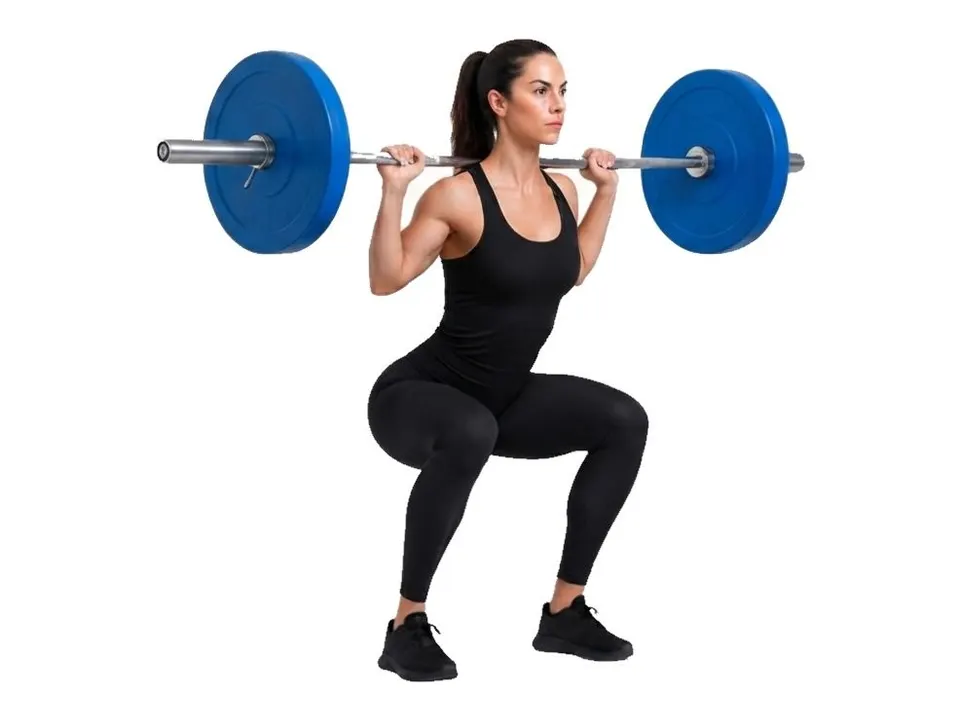
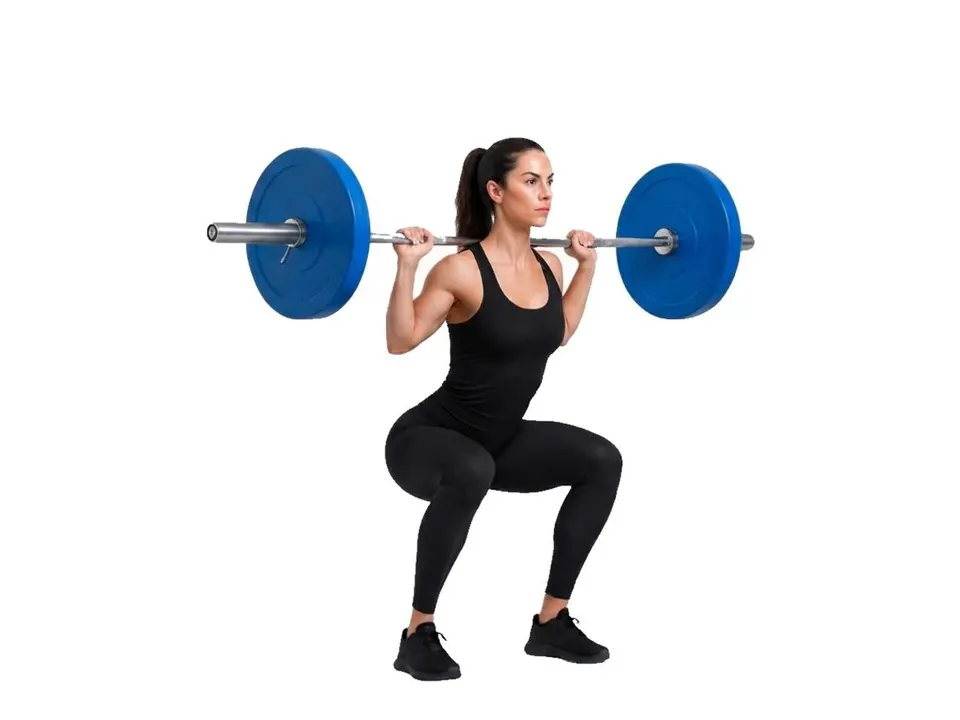
Move photos animate again: 45 moves swap two poses with a hard cut
The owner asked for the woman's move photos to move again, as real exercises and nothing that looks odd. Each of the
57 two-frame moves was checked by eye (side by side, overlaid, and against the exercise's own instructions):

- 45 loop: public/moves/photo/<id>-b.webp is the other end of the movement, cropped with the same box as the photo
  (raw camera coordinates; the sumo deadlift is lined up on the floor), so the floor, feet and equipment stay put.
  ExerciseVisual lays it over the photo and swaps with a hard cut, never a fade: 900 ms a pose for lifts, 450 ms
  for steps, strides, rope turns and punches. Thumbnails and reduced motion stay still; a second photo that fails
  to load stops the loop and keeps the still.
- 12 stay one picture (STILL in scripts/moves/build.mjs, with the reason for each): arm circles, assault bike,
  battle rope, hip circles, burpee, slam hop-over, dumbbell fly, standing dumbbell press, stationary bike, Swiss
  ball leg curl, thruster and wall ball. The 5 stretches and holds have one frame.

About 0.6 MB more precached. A test keeps the shipped -b files and EXERCISE_PHOTO_LOOPS in step.

Changed region(s): [[0.1562, 0.0306, 0.8438, 0.9472]]

diff --git a/src/data/exerciseMedia.ts b/src/data/exerciseMedia.ts
@@ -199,6 +199,9 @@ export const EXERCISE_ART_LOOPS: Record<string, [slug: string, frames: number[]]
 // picture of these moves, so a class and its swaps read in one style. Every frame was checked by eye; the leg press
 // stops at 90° and the back squat above parallel, the ranges the instructions set. Until 2026-10-14 they were two-frame
 // loops with a man's set for male profiles; the owner found the fade ghostly and chose one picture, of the woman.
+// Since 2026-10-15 the moves in EXERCISE_PHOTO_LOOPS move again, without a fade: photo/<id>-b.webp is the other end of
+// the movement in the same crop, and the two swap with a hard cut. Every pair was checked by eye against the exercise;
+// STILL in scripts/moves/build.mjs lists the two-frame moves that stay one picture, and why.
 export const EXERCISE_PHOTO_SOURCE = 'AI-generated (Canva, Gemini)'
 export const EXERCISE_PHOTOS: string[] = [
   'arabesque', 'arm_circles', 'arnold_press', 'assault_bike', 'ball_back_extension', 'ball_slam', 'band_monster_walk',
@@ -212,6 +215,27 @@ export const EXERCISE_PHOTOS: string[] = [
   'stationary_bike', 'step_jack', 'straight_arm_pulldown', 'swiss_ball_leg_curl', 'thread_the_needle', 'thruster',
   'track_run', 'treadmill_push', 'wall_ball',
 ]
+
+/** Photo moves that loop: the photo, then photo/<id>-b.webp. Built by scripts/moves/build.mjs, checked by eye 2026-10-15. */
+export const EXERCISE_PHOTO_LOOPS: string[] = [
+  'arabesque', 'arnold_press', 'ball_back_extension', 'ball_slam', 'band_monster_walk', 'bb_back_squat', 'bb_bench_press',
+  'bb_hang_pull', 'bb_row', 'bb_sumo_deadlift', 'bike_climb', 'cat_cow', 'db_overhead_triceps', 'db_pullover_bridge',
+  'double_under', 'glute_bridge', 'hip_thrust', 'incline_walk', 'jump_rope', 'kb_bottoms_up_press', 'kb_halo', 'kb_rdl',
+  'kb_suitcase_squat', 'kb_swing', 'kneeling_hip_thrust', 'landmine_lunge_press', 'lateral_lunge', 'leg_press',
+  'leg_swings', 'march_in_place', 'mountain_climber', 'one_arm_db_row', 'pallof_press_overhead', 'plank_shoulder_tap',
+  'rowing_machine', 'scapular_roll', 'shadow_boxing', 'ski_erg', 'sl_bridge_bench', 'sled_push', 'step_jack',
+  'straight_arm_pulldown', 'thread_the_needle', 'track_run', 'treadmill_push',
+]
+
+/** Quick, repeating loops (steps, strides, rope turns, punches) swap faster than a lift's steady rep. */
+export const EXERCISE_PHOTO_FAST: string[] = [
+  'bike_climb', 'double_under', 'incline_walk', 'jump_rope', 'march_in_place', 'mountain_climber', 'shadow_boxing',
+  'sled_push', 'step_jack', 'track_run', 'treadmill_push',
+]
+
+/** How long each photo of a loop shows, in ms. */
+export const PHOTO_BEAT_MS = 900
+export const PHOTO_FAST_BEAT_MS = 450
 
 const movesUrl = (file: string) => `${import.meta.env.BASE_URL}moves/${file}`
 
@@ -233,10 +257,14 @@ export interface ExerciseMedia {
   photo: string | null
   /** The same photo cropped square on the person, for thumbnails. */
   photoThumb: string | null
+  /** The photo, then the other end of the movement when the move loops ([] without a photo). */
+  photoFrames: string[]
+  /** How long each photo of a loop shows, in ms (0 without a loop). */
+  photoBeat: number
   source: string | null
 }
 
-const NO_PHOTO = { photo: null, photoThumb: null }
+const NO_PHOTO = { photo: null, photoThumb: null, photoFrames: [], photoBeat: 0 }
 
 /**
  * Animation + photos for one of OUR exercise ids (unknown ids get neither). An AI photo replaces all, then a drawing
@@ -244,7 +272,14 @@ const NO_PHOTO = { photo: null, photoThumb: null }
  */
 export function exerciseMedia(id: string): ExerciseMedia {
   if (EXERCISE_PHOTOS.includes(id)) {
-    return { animation: null, images: [], art: null, artFrames: [], photo: movesUrl(`photo/${id}.webp`), photoThumb: movesUrl(`thumb/${id}.webp`), source: EXERCISE_PHOTO_SOURCE }
+    const photo = movesUrl(`photo/${id}.webp`)
+    const loop = EXERCISE_PHOTO_LOOPS.includes(id)
+    return {
+      animation: null, images: [], art: null, artFrames: [], photo, photoThumb: movesUrl(`thumb/${id}.webp`),
+      photoFrames: loop ? [photo, movesUrl(`photo/${id}-b.webp`)] : [photo],
+      photoBeat: !loop ? 0 : EXERCISE_PHOTO_FAST.includes(id) ? PHOTO_FAST_BEAT_MS : PHOTO_BEAT_MS,
+      source: EXERCISE_PHOTO_SOURCE,
+    }
   }
   const loop = EXERCISE_ART_LOOPS[id]
   if (loop) {

diff --git a/src/components/ExerciseVisual.tsx b/src/components/ExerciseVisual.tsx
@@ -47,11 +47,13 @@ function usePrefersReducedMotion(): boolean {
 /**
  * Best available picture of the movement: the AI photo, then the looping animation, then the verified photos, then
  * the line illustration, then (or on load error) a tinted MuscleMap tile. Reduced motion skips the animation. A drawing
- * with several frames plays on cards and heroes; thumbs and reduced motion show the first frame.
+ * with several frames, or a photo loop, plays on cards and heroes; thumbs and reduced motion show the first frame.
  */
 export function ExerciseVisual({ exercise, size = 'card', className }: ExerciseVisualProps) {
-  const { animation, images, art, artFrames, photo, photoThumb } = exerciseMedia(exercise.id)
+  const { animation, images, art, artFrames, photo, photoThumb, photoFrames, photoBeat } = exerciseMedia(exercise.id)
   const [photoFailed, setPhotoFailed] = useState(false)
+  const [loopFailed, setLoopFailed] = useState(false)
+  const [shot, setShot] = useState(0)
   const [animFailed, setAnimFailed] = useState(false)
   const [failed, setFailed] = useState(false)
   const [artFailed, setArtFailed] = useState(false)
@@ -60,13 +62,14 @@ export function ExerciseVisual({ exercise, size = 'card', className }: ExerciseV
   const reduced = usePrefersReducedMotion()
 
   // A new exercise gets a fresh chance to load its media.
-  useEffect(() => { setPhotoFailed(false); setAnimFailed(false); setFailed(false); setArtFailed(false); setFrame(0); setStep(0) }, [exercise.id])
+  useEffect(() => { setPhotoFailed(false); setLoopFailed(false); setAnimFailed(false); setFailed(false); setArtFailed(false); setFrame(0); setStep(0); setShot(0) }, [exercise.id])
 
   const showAnim = !!animation && !animFailed && !reduced
   const showPhoto = !showAnim && images.length > 0 && !failed
   const showArt = !showAnim && !showPhoto && !!art && !artFailed
   const crossfade = showPhoto && size === 'hero' && images.length > 1 && !reduced
   const flip = showArt && size !== 'thumb' && artFrames.length > 1 && !reduced
+  const photoLoop = !!photo && !photoFailed && !loopFailed && size !== 'thumb' && photoFrames.length > 1 && !reduced
 
   useEffect(() => {
     if (!crossfade) { setFrame(0); return }
@@ -80,8 +83,16 @@ export function ExerciseVisual({ exercise, size = 'card', className }: ExerciseV
     return () => window.clearInterval(t)
   }, [flip, artFrames.length])
 
+  useEffect(() => {
+    if (!photoLoop) { setShot(0); return }
+    const t = window.setInterval(() => setShot((i) => (i + 1) % photoFrames.length), photoBeat)
+    return () => window.clearInterval(t)
+  }, [photoLoop, photoFrames.length, photoBeat])
+
   if (photo && !photoFailed) {
-    // One still picture; a thumb has its own square crop on the person.
+    // One picture; a thumb has its own square crop on the person. A loop lays its other photos over the first and shows
+    // one at a time with a hard cut, never a fade (a fade reads as a ghost). The first stays underneath, so a photo that
+    // has not loaded yet shows the still, and one that fails stops the loop.
     return (
       <div role="img" aria-label={exercise.name} className={cx('relative overflow-hidden border border-line bg-media', FRAME[size], className)}>
         <img
@@ -93,6 +104,18 @@ export function ExerciseVisual({ exercise, size = 'card', className }: ExerciseV
           onError={() => setPhotoFailed(true)}
           className={cx('absolute inset-0 h-full w-full', size === 'thumb' ? 'object-cover' : 'object-contain')}
         />
+        {photoLoop && photoFrames.slice(1).map((src, i) => (
+          <img
+            key={src}
+            src={src}
+            alt=""
+            loading="lazy"
+            decoding="async"
+            draggable={false}
+            onError={() => setLoopFailed(true)}
+            className={cx('absolute inset-0 h-full w-full object-contain', shot === i + 1 ? 'opacity-100' : 'opacity-0')}
+          />
+        ))}
       </div>
     )
   }

diff --git a/src/data/__tests__/exerciseMedia.test.ts b/src/data/__tests__/exerciseMedia.test.ts
@@ -1,10 +1,10 @@
-import { existsSync } from 'node:fs'
+import { existsSync, readdirSync } from 'node:fs'
 import { join } from 'node:path'
 import { describe, expect, it } from 'vitest'
 import { EXERCISES, EXERCISE_BY_ID } from '../exercises'
 import {
   EXERCISE_ANIMATION_BASE, EXERCISE_ANIMATION_IDS, EXERCISE_ART_BASE, EXERCISE_ART_FRAMES, EXERCISE_ART_LOOPS, EXERCISE_MEDIA_BASE,
-  EXERCISE_PHOTO_IDS, EXERCISE_PHOTOS, exerciseMedia,
+  EXERCISE_PHOTO_FAST, EXERCISE_PHOTO_IDS, EXERCISE_PHOTO_LOOPS, EXERCISE_PHOTOS, PHOTO_BEAT_MS, PHOTO_FAST_BEAT_MS, exerciseMedia,
 } from '../exerciseMedia'
 import { getProgram } from '../programs'
 import { SESSION_TEMPLATES } from '../../engine/planner'
@@ -128,6 +128,26 @@ describe('exerciseMedia', () => {
       expect([m.animation, m.art, ...m.images], id).toEqual([null, null])
     }
     expect(exerciseMedia('bird_dog').photo).toBeNull()
+  })
+
+  it('ships the other end of the movement for exactly the photo loops, played after the photo', () => {
+    const dir = join(__dirname, '../../../public/moves/photo')
+    expect(new Set(EXERCISE_PHOTO_LOOPS).size).toBe(EXERCISE_PHOTO_LOOPS.length)
+    const shipped = readdirSync(dir).filter((f) => f.endsWith('-b.webp')).map((f) => f.slice(0, -'-b.webp'.length))
+    expect(shipped.sort()).toEqual([...EXERCISE_PHOTO_LOOPS].sort())
+    for (const id of EXERCISE_PHOTO_LOOPS) {
+      expect(EXERCISE_PHOTOS, id).toContain(id)
+      expect(exerciseMedia(id).photoFrames, id).toEqual([`/moves/photo/${id}.webp`, `/moves/photo/${id}-b.webp`])
+    }
+    for (const id of EXERCISE_PHOTO_FAST) expect(EXERCISE_PHOTO_LOOPS, id).toContain(id)
+    expect(exerciseMedia('march_in_place').photoBeat).toBe(PHOTO_FAST_BEAT_MS)
+    expect(exerciseMedia('kb_swing').photoBeat).toBe(PHOTO_BEAT_MS)
+    // A move whose frames do not swap cleanly, and a hold, stay one picture.
+    for (const id of ['thruster', 'childs_pose']) {
+      expect(exerciseMedia(id).photoFrames, id).toEqual([`/moves/photo/${id}.webp`])
+      expect(exerciseMedia(id).photoBeat, id).toBe(0)
+    }
+    expect(exerciseMedia('bird_dog').photoFrames).toEqual([])
   })
 
   it('gives every move of the BFT week a photo: standard, knee and back paths, alone and together', () => {

diff --git a/README.md b/README.md
@@ -139,7 +139,7 @@ Design rules live in `docs/DESIGN.md` (section 10 is the current direction).
 - **Nothing is bundled.** Photos load on demand from `https://raw.githubusercontent.com/yuhonas/free-exercise-db/main/exercises/<ID>/0.jpg` and `/1.jpg` (start and end position), lazily, only when an exercise is on screen. The service worker caches them (`exercise-media`, cache-first, 90 days, up to 400 files — see `runtimeCaching` in `vite.config.ts`), so a workout you have opened once keeps its photos offline. The request tells GitHub only which exercise image was fetched; no personal data is sent.
 - **Mapping.** `src/data/exerciseMedia.ts` maps our exercise ids to dataset folder ids (`EXERCISE_PHOTO_IDS`). Every entry was checked against the dataset index and both image URLs (HTTP 200) before it was added; 74 of the 84 library exercises are mapped. A few photos use different equipment from our variant (barbell hip thrust, kettlebell goblet squat) and may show a fuller range than our knee-friendly versions: the photo illustrates the movement, the written instructions set the range.
 - **Exercise illustrations** come from [Workout Guide](https://github.com/bryllim/workout-guide) by [Bryl Lim](https://bryllim.com), built on pose artwork from [Everkinetic](https://github.com/everkinetic/data). The artwork is licensed [CC BY-SA 4.0](https://creativecommons.org/licenses/by-sa/4.0/) (the repository's code is MIT); the exercise screen credits it on a line under the picture. They fill the 22 exercises that have neither an animation nor a photo (`EXERCISE_ART_FRAMES` in `src/data/exerciseMedia.ts`), and they replace the animation and photo for the moves of the Blueprint week, so a whole session reads in one style (`EXERCISE_ART_LOOPS`, which flips through two to four frames of the movement on cards and in Focus Mode). Each entry names one of the exercise's three frames, picked by eye to match our variant: the tucked hollow hold and tuck L-sit use the tucked frame, not the full version. The swims, band moves drawn with other equipment and the range-limited moves are left out. **Change:** the white line art is shown inverted to near-black ink on the white media tile. The SVGs load on demand from `raw.githubusercontent.com/bryllim/workout-guide/<pinned commit>/…`, are cached by the service worker (`exercise-art`, cache-first, 90 days, up to 100 files) and are never copied into this repo.
-- **Exercise photos** (the BFT week) are AI-generated: one woman in one plain studio. First drafts came from Canva's image generator; the frames were then redrawn at 1200 px with Gemini image models through OpenRouter (`google/gemini-3.1-flash-lite-image`), from the drafts, reference frames and text prompts, two frames per move (start and end; one for the Sunday stretches), and their backgrounds whitened. Each frame was checked by eye. `scripts/moves/build.mjs` takes each move's clearest frame and writes one 4:3 picture (`public/moves/photo/<id>.webp`, about 12 KB) and a square crop on the person for thumbnails (`public/moves/thumb/<id>.webp`); both are precached so they work offline. `EXERCISE_PHOTOS` in `src/data/exerciseMedia.ts` lists them, and they replace every other picture of those moves. No BFT photo, video or logo was used. The exercise screen says "Photo: AI-generated".
+- **Exercise photos** (the BFT week) are AI-generated: one woman in one plain studio. First drafts came from Canva's image generator; the frames were then redrawn at 1200 px with Gemini image models through OpenRouter (`google/gemini-3.1-flash-lite-image`), from the drafts, reference frames and text prompts, two frames per move (start and end; one for the Sunday stretches), and their backgrounds whitened. Each frame was checked by eye. `scripts/moves/build.mjs` takes each move's clearest frame and writes one 4:3 picture (`public/moves/photo/<id>.webp`, about 12 KB) and a square crop on the person for thumbnails (`public/moves/thumb/<id>.webp`); both are precached so they work offline. `EXERCISE_PHOTOS` in `src/data/exerciseMedia.ts` lists them, and they replace every other picture of those moves. 45 moves loop: `public/moves/photo/<id>-b.webp` is the other end of the movement in the same crop, swapped in with a hard cut (never a fade) on cards and in Focus Mode, faster for steps and strides (`EXERCISE_PHOTO_LOOPS`, `EXERCISE_PHOTO_FAST`); thumbnails and reduced motion stay still. Every pair was checked by eye against the exercise, and `STILL` in the build script says why the other two-frame moves stay one picture. No BFT photo, video or logo was used. The exercise screen says "Photo: AI-generated".
 - **Fallback.** Exercises with no animation, photo or illustration (single-leg press, suitcase carry and the three swims, among others), and any picture that fails to load (offline on first view, GitHub unreachable), show a tinted tile with the app's own `MuscleMap` illustration instead: an inline-SVG front/back figure with primary muscles in the pillar hue and secondary muscles at 40%. No layout shift, no broken-image icon.
 - **Illustrations and icons.** The muscle map and the empty-state line illustrations are original inline SVG drawn for this app. Icons are [lucide](https://lucide.dev) (ISC licence).
 
